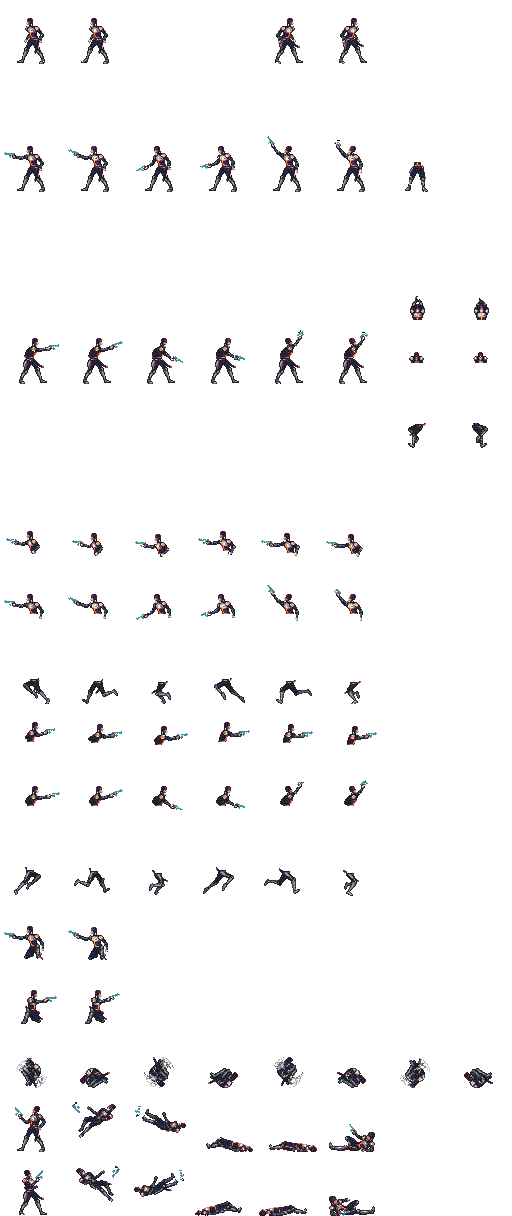
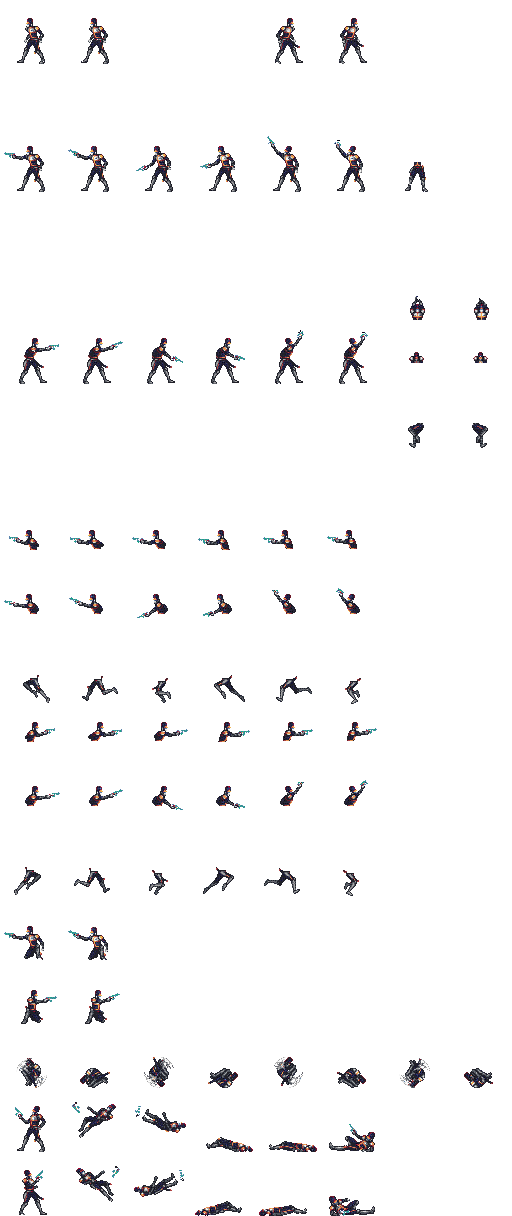
Saber: aim / shot torsos ride the run bob, left run cells mirror the right
Shooting on the run swaps the run torso for Fireball's static aim / shot
overlays.  Saber's run figure bobs 0/2/4 px through the stride and the bob was
baked into the run torso cells, so a static torso floated over the hip on the
tucked frames; the master's mirror-reconstructed left side also drifted a few
px from the legs.

- Character.torso_bob is now a per-legs-frame table of hip offsets applied to
  every torso overlay while walking (Fireball {0,0,1,0,0,1} as before, April 0,
  Saber {0,2,4,0,2,4}); the Saber packer takes the bob out of the run torso
  cells so run and aim torsos share one origin.
- The packer builds every left split cell (run halves, aim / shot torsos, fall
  legs) as the exact mirror of its right cell (Saber has no left footage).
- SABER_ANIMS dumps a CRHC animation table; SABER_TRACE shows the overlay frame.

diff --git a/src/character.c b/src/character.c
@@ -30,8 +30,13 @@ bool character_init(Character *c, uint32_t crhc_id, bool enemy)
         c->anim_flags[i] = rd32(d + 0xa24 + i * 4);
     }
     c->hp_max = rd32(d + 0xadc);
+    if (SDL_getenv("SABER_ANIMS"))   /* debug: dump the table */
+        for (int i = 0; i < CHAR_CRHC_ANIMS; i++)
+            fprintf(stderr, "crhc %08X anim %2d: cells %d-%d loop %d dt %.3f flags %x muzzle %.0f,%.0f\n", crhc_id, i, c->anims[i].first,
+                    c->anims[i].last, c->anims[i].loop, c->anims[i].frame_time, c->anims[i].flags, c->muzzle[i][0], c->muzzle[i][1]);
     { const PackEntry *se = packs_find(c->sprite_id); if (se && se->type == RES_SPRITE) c->spr = sprite_get(c->sprite_id); else c->cb = cblock_get(c->sprite_id); }
-    c->torso_bob = true;
+    static const int8_t fireball_bob[8] = { 0, 0, 1, 0, 0, 1 };
+    memcpy(c->torso_bob, fireball_bob, sizeof c->torso_bob);
     c->bored_anim[0] = c->bored_anim[1] = -1; c->walk_aim_ov = WALK_AIM_ALL; c->ov_sync = false;
     hero_apply(c);                 /* player heroes only: recreated sheets (April) replace the pack's cblock + patch the table */
     c->body.ox = c->box_ox; c->body.oy = c->box_oy; c->body.hx = c->box_hx; c->body.hy = c->box_hy;
@@ -241,7 +246,7 @@ void character_draw(const Character *c, float cam_x, float cam_y)
     draw_cell(c, c->frame, (int)(c->anims[c->anim].flags & 0xff), x, y);
     /* the torso is its own sprite object placed at the base offset (up/down aims, 1 px walk bob) */
     float oy = c->base_oy;
-    if (c->walk_bob && c->torso_bob && ((c->frame + 1 - (int)c->anims[c->anim].first) % 3) == 0) oy += 1.0f;   /* legs cells 2 and 5 sit 1 px lower */
+    if (c->walk_bob) { int k = c->frame - (int)c->anims[c->anim].first; if (k >= 0 && k < 8) oy += (float)c->torso_bob[k]; }   /* the hip drops with the legs frame */
     if (c->overlay) draw_cell(c, c->ov_frame, (int)(c->anims[c->overlay].flags & 0xff), x + c->base_ox, y + oy);
 }
 

diff --git a/src/heroes.c b/src/heroes.c
@@ -127,8 +127,11 @@ bool hero_apply(Character *c)
         if (!cb) return false;
         c->cb = cb; c->spr = NULL;   /* table is already Fireball's own layout: no anim/hurtbox patches needed */
         /* but the run art is not Fireball's: the master's rows 10 / 11 are one figure cut at the hip per frame
-         * (like April's clip halves), so torso frame k only fits on legs frame k, and none of the legs bob */
-        c->torso_bob = false;
+         * (like April's clip halves), so torso frame k only fits on legs frame k; the figure bobs 0/2/4 px through
+         * the stride (heroes/build_saber_engine_sheet.py prints it), which the packer takes out of the torso cells
+         * so every torso overlay - run or aim / shot - follows the hip from here */
+        static const int8_t saber_bob[8] = { 0, 2, 4, 0, 2, 4 };
+        memcpy(c->torso_bob, saber_bob, sizeof c->torso_bob);
         c->ov_sync = true;
         return true;
     }
@@ -137,7 +140,7 @@ bool hero_apply(Character *c)
     CBlock *cb = april_sheet();
     if (!cb) return false;
     c->cb = cb; c->spr = NULL;
-    c->torso_bob = false;      /* Fireball's run legs bob 1 px on cells 2 and 5; April's do not */
+    memset(c->torso_bob, 0, sizeof c->torso_bob);   /* Fireball's run legs bob 1 px on cells 2 and 5; April's do not */
     c->ov_sync = true;         /* run torso frame k belongs on run legs frame k */
     c->walk_aim_ov = WALK_AIM_DIAG;   /* the run torso (clip pixels, gun held level) stays for level shots; up / down diagonals use the sheet's aim torsos over the clip legs */
     for (size_t i = 0; i < sizeof APRIL_ANIMS / sizeof *APRIL_ANIMS; i++) {

diff --git a/src/game.c b/src/game.c
@@ -205,8 +205,8 @@ void game_update(Game *g, float dt)
     character_animate(c, dt);
     effects_update(&g->effects, dt);
     player_frame_end(p, dt);
-    if (SDL_getenv("SABER_TRACE")) fprintf(stderr, "cam=%.0f lock=%d st=%d aim=%d face=%d anim=%d frame=%d flags=%x coll=%x pos=%.1f,%.1f v=%.1f,%.1f in=%d%d%d%d%d%d%d\n",
-        g->cam_x, g->cam_locked, c->state, c->aim, c->facing, c->anim, c->frame, c->flags, c->coll, c->body.x, c->body.y, c->body.vx, c->body.vy,
+    if (SDL_getenv("SABER_TRACE")) fprintf(stderr, "cam=%.0f lock=%d st=%d aim=%d face=%d anim=%d frame=%d ov=%d ovf=%d flags=%x coll=%x pos=%.1f,%.1f v=%.1f,%.1f in=%d%d%d%d%d%d%d\n",
+        g->cam_x, g->cam_locked, c->state, c->aim, c->facing, c->anim, c->frame, c->overlay, c->ov_frame, c->flags, c->coll, c->body.x, c->body.y, c->body.vx, c->body.vy,
         g->in.state[0], g->in.state[1], g->in.state[2], g->in.state[3], g->in.state[4], g->in.state[5], g->in.state[6]);
 
     if (g->free_cam) {

diff --git a/src/character.h b/src/character.h
@@ -45,7 +45,7 @@ typedef struct {
     float alert_t;
     float hit_t;
     bool walk_bob;              /* player walk cycle: torso follows the legs' 1 px bob (FUN_0041c530) */
-    bool torso_bob;             /* the sheet's run legs sit 1 px lower on cells 2 and 5 (Fireball's art) */
+    int8_t torso_bob[8];        /* px the hip drops on each run legs frame: every torso overlay rides it (Fireball's art: cells 2 and 5 sit 1 px lower) */
     uint8_t walk_aim_ov;        /* WALK_AIM_*: which aim / shoot torso overlays replace the run torso while walking */
     bool ov_sync;               /* a torso overlay with the legs' frame count and rate starts in phase with the legs (April: the run torso is the clip frames' upper half, so it must sit on its own legs frame) */
     int bored_anim[2];          /* L/R animation played once after idling for bored_time seconds (-1: none; April's stretch) */
